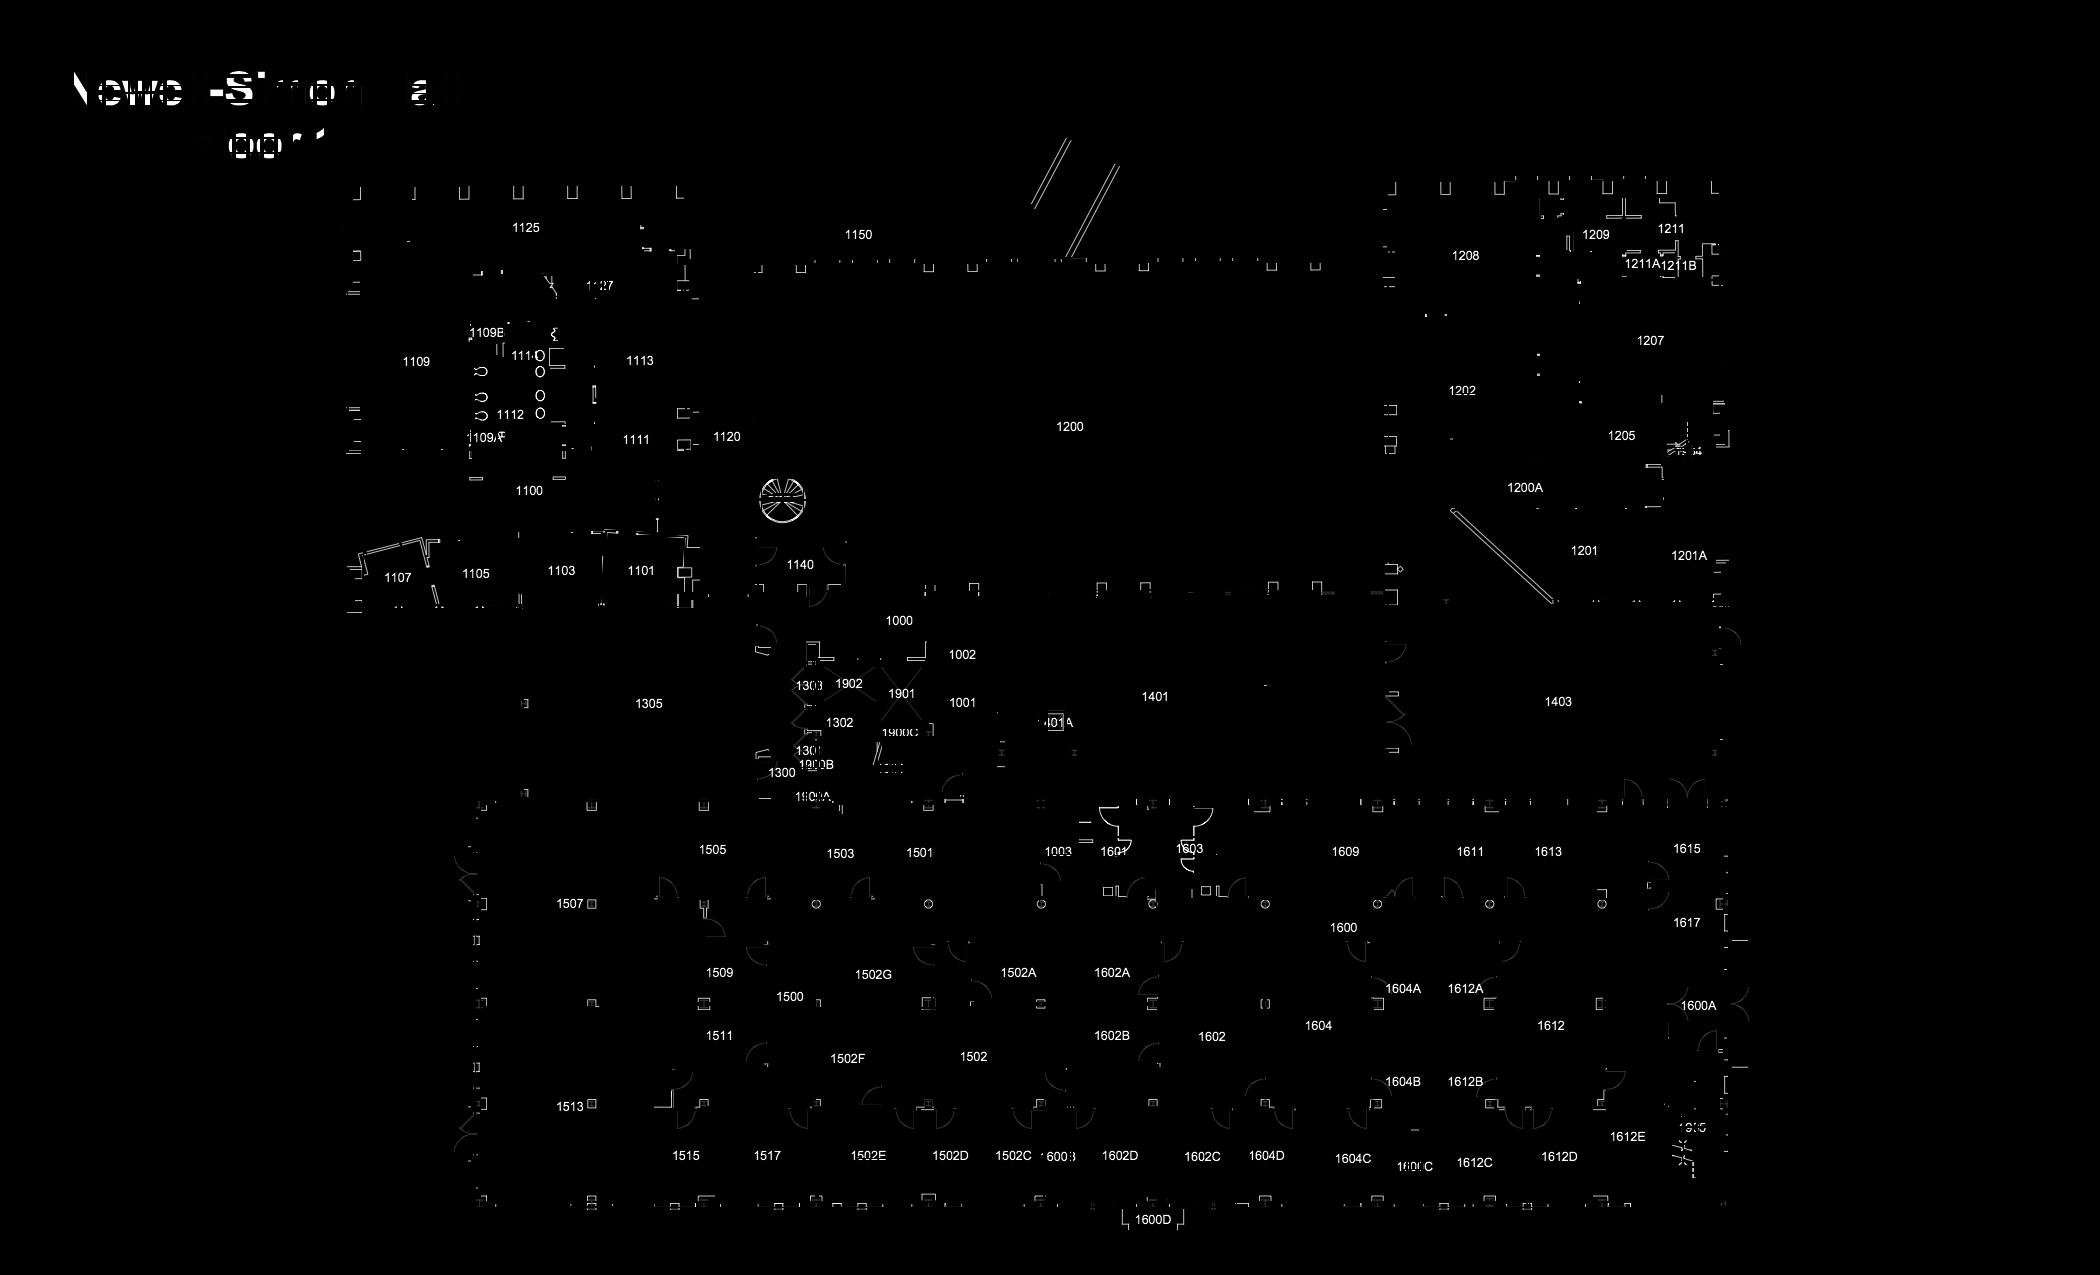
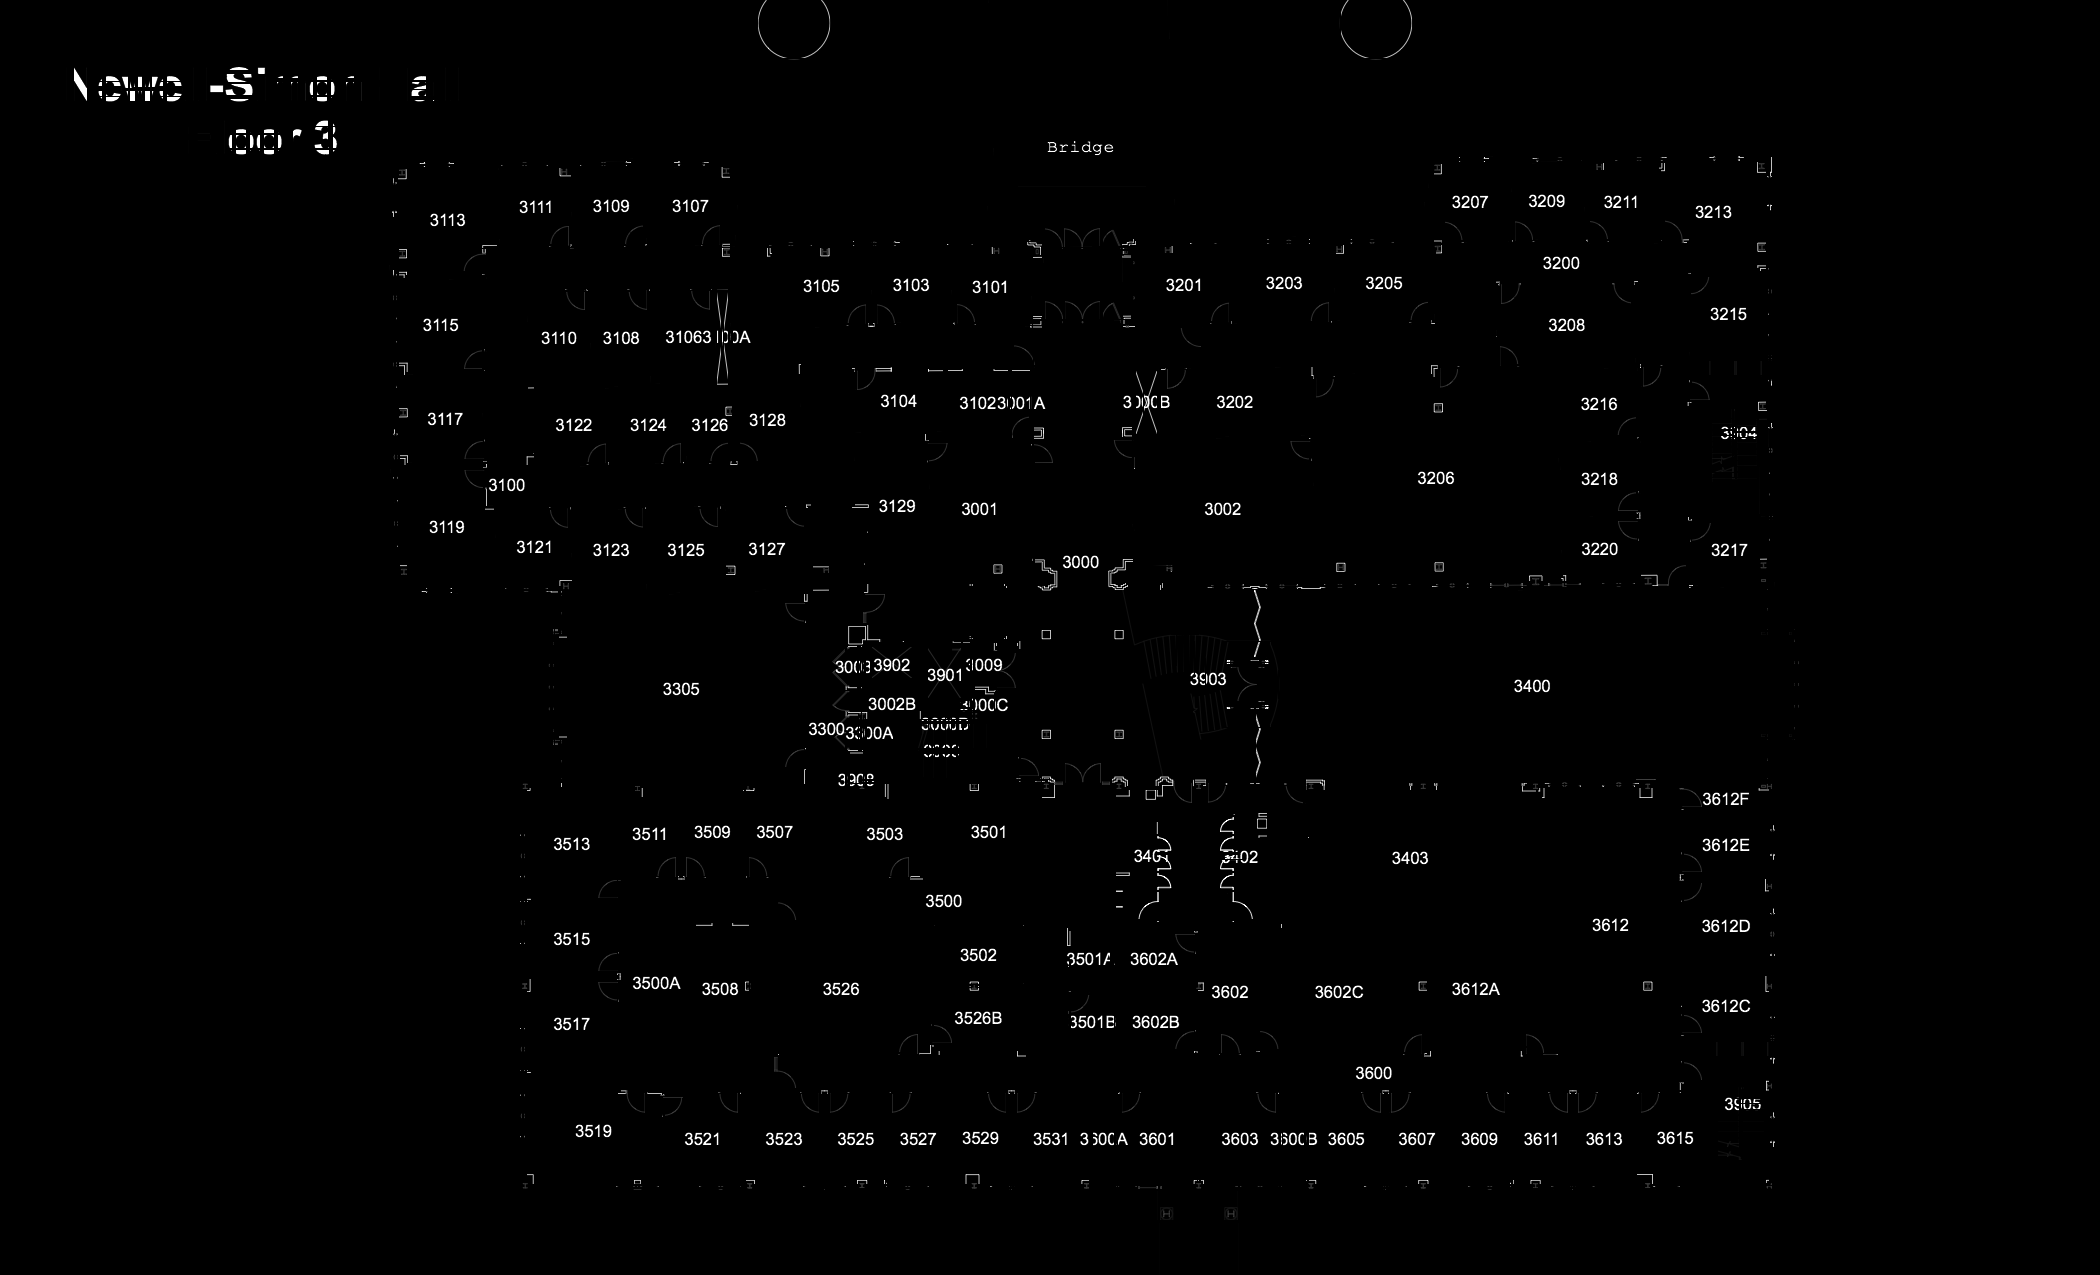
changed what colors I could find

diff --git a/Flow/www/learn.html b/Flow/www/learn.html
@@ -1,0 +1,156 @@
+<!DOCTYPE html>
+<html lang="en">
+  <head>
+    <meta charset="utf-8">
+    <title>Login or Register</title>
+    <meta name="viewport" content="width=device-width, initial-scale=1.0">
+    <meta name="description" content="">
+    <meta name="author" content="">
+
+    <!-- Le styles -->
+    <link href="css/bootstrap.min.css" rel="stylesheet">
+    <link href="css/global-styles.css" rel="stylesheet">
+    <link href="css/authentication.css" rel="stylesheet">
+
+    <!-- Le HTML5 shim, for IE6-8 support of HTML5 elements -->
+    <!--[if lt IE 9]>
+      <script src="js/html5shiv.js"></script>
+    <![endif]-->
+    <style>
+      /* Marketing section of Overview
+      -------------------------------------------------- */
+
+      .marketing {
+        text-align: center;
+        color: #5a5a5a;
+      }
+      .marketing h1 {
+        margin: 60px 0 10px;
+        font-size: 60px;
+        font-weight: 200;
+        line-height: 1;
+        letter-spacing: -1px;
+      }
+      .marketing h2 {
+        font-weight: 200;
+        margin-bottom: 5px;
+      }
+      .marketing p {
+        font-size: 16px;
+        line-height: 1.5;
+      }
+      .marketing .marketing-byline {
+        margin-bottom: 40px;
+        font-size: 20px;
+        font-weight: 300;
+        line-height: 1.25;
+        color: #999;
+      }
+      .marketing-img {
+        display: block;
+        margin: 0 auto 30px;
+        max-height: 145px;
+      }
+
+    </style>
+  </head>
+
+  <body>
+
+    <!-- Navbar
+    ================================================== -->
+    <div class="navbar navbar-inverse navbar-fixed-top">
+      <div class="navbar-inner">
+        <div class="container">
+          <button type="button" class="btn btn-navbar" data-toggle="collapse" data-target=".nav-collapse">
+            <span class="icon-bar"></span>
+            <span class="icon-bar"></span>
+            <span class="icon-bar"></span>
+          </button>
+          <a class="brand" href="./home.html">NavPal</a>
+          <div class="nav-collapse collapse">
+            <ul class="nav">
+              <li class="active"><a href="./home.html">Home</a></li>
+              <li class=""><a href="./account.html">Account</a></li>
+            </ul>
+          </div>
+        </div>
+      </div>
+    </div>
+
+    <!-- Title and subtitile
+    ================================================== -->
+    <header class="jumbotron subhead" id="overview">
+      <div class="container">
+        <h1>How it works</h1>
+        <p class="note">We construct our building data in three phases</p>
+      </div>
+    </header>
+
+    <div class="container">
+
+  <div class="marketing">
+
+    <h1>Preprocessing</h1>
+    <p class="marketing-byline">Lessen the work load on the user.</p>
+
+    <div class="row-fluid">
+      <div class="span4">
+        <img class="marketing-img" src="assets/img/bs-docs-responsive-illustrations.png">
+        <h2>Line Extraction.</h2>
+        <p>Built at Twitter by <a href="http://twitter.com/mdo">@mdo</a> and <a href="http://twitter.com/fat">@fat</a>, Bootstrap utilizes <a href="http://lesscss.org">LESS CSS</a>, is compiled via <a href="http://nodejs.org">Node</a>, and is managed through <a href="http://github.com">GitHub</a> to help nerds do awesome stuff on the web.</p>
+      </div>
+      <div class="span4">
+        <img class="marketing-img" src="assets/img/bs-docs-responsive-illustrations.png">
+        <h2>Door Identification.</h2>
+        <p>Bootstrap was made to not only look and behave great in the latest desktop browsers (as well as IE7!), but in tablet and smartphone browsers via <a href="./scaffolding.html#responsive">responsive CSS</a> as well.</p>
+      </div>
+      <div class="span4">
+        <img class="marketing-img" src="assets/img/bs-docs-bootstrap-features.png">
+        <h2>Optical Character Recognition.</h2>
+        <p>A 12-column responsive <a href="./scaffolding.html#gridSystem">grid</a>, dozens of components, <a href="./javascript.html">JavaScript plugins</a>, typography, form controls, and even a <a href="./customize.html">web-based Customizer</a> to make Bootstrap your own.</p>
+      </div>
+    </div>
+
+    <hr class="soften">
+
+    <h1>User Input.</h1>
+    <p class="marketing-byline">For even more sites built with Bootstrap, <a href="http://builtwithbootstrap.tumblr.com/" target="_blank">visit the unofficial Tumblr</a> or <a href="./getting-started.html#examples">browse the examples</a>.</p>
+    <div class="row-fluid">
+      <ul class="thumbnails example-sites">
+        <li class="span3">
+          <a class="thumbnail" href="http://soundready.fm/" target="_blank">
+            <img src="assets/img/example-sites/soundready.png" alt="SoundReady.fm">
+          </a>
+        </li>
+        <li class="span3">
+          <a class="thumbnail" href="http://kippt.com/" target="_blank">
+            <img src="assets/img/example-sites/kippt.png" alt="Kippt">
+          </a>
+        </li>
+        <li class="span3">
+          <a class="thumbnail" href="http://www.gathercontent.com/" target="_blank">
+            <img src="assets/img/example-sites/gathercontent.png" alt="Gather Content">
+          </a>
+        </li>
+        <li class="span3">
+          <a class="thumbnail" href="http://www.jshint.com/" target="_blank">
+            <img src="assets/img/example-sites/jshint.png" alt="JS Hint">
+          </a>
+        </li>
+      </ul>
+     </div>
+
+  </div>
+
+</div>
+
+
+    <!-- Le javascript
+    ================================================== -->
+    <!-- Placed at the end of the document so the pages load faster -->
+    <script src="./js/jquery.js" type="text/javascript" ></script>
+    <script src="./js/bootstrap/bootstrap.min.js" type="text/javascript" ></script>
+
+  </body>
+</html>

diff --git a/Flow/www/js/draw/line.js b/Flow/www/js/draw/line.js
@@ -98,12 +98,12 @@ Line.prototype.draw = function (lineColor) {
 	
 	//Save the old stroke, so that we can restore it when we're done
 	var oldStroke = stateManager.currentFloor.globals.canvas.strokeStyle;
-	stateManager.currentFloor.globals.canvas.strokeStyle = 'rgba(0,180,0,1)';
+	stateManager.currentFloor.globals.canvas.strokeStyle = 'rgba(0,180,0,0.6)';
 	if (this.isDoor === true) {
-		stateManager.currentFloor.globals.canvas.strokeStyle = "pink";
+		stateManager.currentFloor.globals.canvas.strokeStyle = 'rgba(188,0,255,0.8)';
 	}
 	if (this.isSelected === true) {
-		stateManager.currentFloor.globals.canvas.strokeStyle = "yellow"; // Yellow
+		stateManager.currentFloor.globals.canvas.strokeStyle = 'rgba(0,132,240,1)'; // Yellow
 	}
 	if (lineColor !== undefined) stateManager.currentFloor.globals.canvas.strokeStyle = lineColor;
 	stateManager.currentFloor.globals.canvas.lineWidth = WALL_WIDTH;

diff --git a/Flow/www/js/draw/Point.js b/Flow/www/js/draw/Point.js
@@ -46,7 +46,7 @@ Point.prototype.equals = function(p) {
  * Returns: undefined
 **/
 Point.prototype.draw = function(pointColor) {
-	if (pointColor === undefined) stateManager.currentFloor.globals.canvas.fillStyle = "black";
+	if (pointColor === undefined) stateManager.currentFloor.globals.canvas.fillStyle = 'rgba(255,255,255,.6)';
 	else stateManager.currentFloor.globals.canvas.fillStyle = pointColor;
 	
 	canvasPoint = stateManager.currentFloor.globals.view.toCanvasWorld(this);

diff --git a/Flow/www/home.html b/Flow/www/home.html
@@ -59,7 +59,7 @@
         <div class="span4">
           <h3 class="instruct-step">Upload a Floorplan</h3>
           <object data="img/upload.svg" class="icon"></object>
-          <h5>Only upload floor plans that of public buildings that you own the rights to </h5>
+          <h5>Upload floor plans of public spaces that you have the rights to</h5>
         </div>
         <div class="span4">
           <h3 class="instruct-step">Define Boundaries</h3>

diff --git a/Flow/www/css/authoringTool.css b/Flow/www/css/authoringTool.css
@@ -90,11 +90,11 @@ html, body {
 
 #saveExport {
     position: absolute;
-    bottom: 10px;
+    bottom: 5px;
 }
 
 .btn-saveExport {
-    margin: 10px 2.5px;
+    margin: 5px 2.5px;
     width: 57px;
     display: block;
     text-shadow: 0 -1px 0 rgba(0, 0, 0, 0.25);
@@ -287,7 +287,7 @@ html, body {
 }
 
 .form-horizontal .controls {
-margin-left: 100px;
+margin-left: 90px;
 }
 
 .form-horizontal .control-group {

diff --git a/Flow/www/js/lib/globals.js b/Flow/www/js/lib/globals.js
@@ -21,7 +21,7 @@ var CANVAS_WIDTH = 780;
 var CANVAS_HEIGHT = 500;
 
 //The color that the points at the ends of walls should be drawn.
-var POINT_COLOR = 'rgba(0,100,255,.6)';
+var POINT_COLOR = 'rgba(255,255,255,.6)';
 
 //The radius of a point, in pixels.
 var POINT_SIZE = 5;
